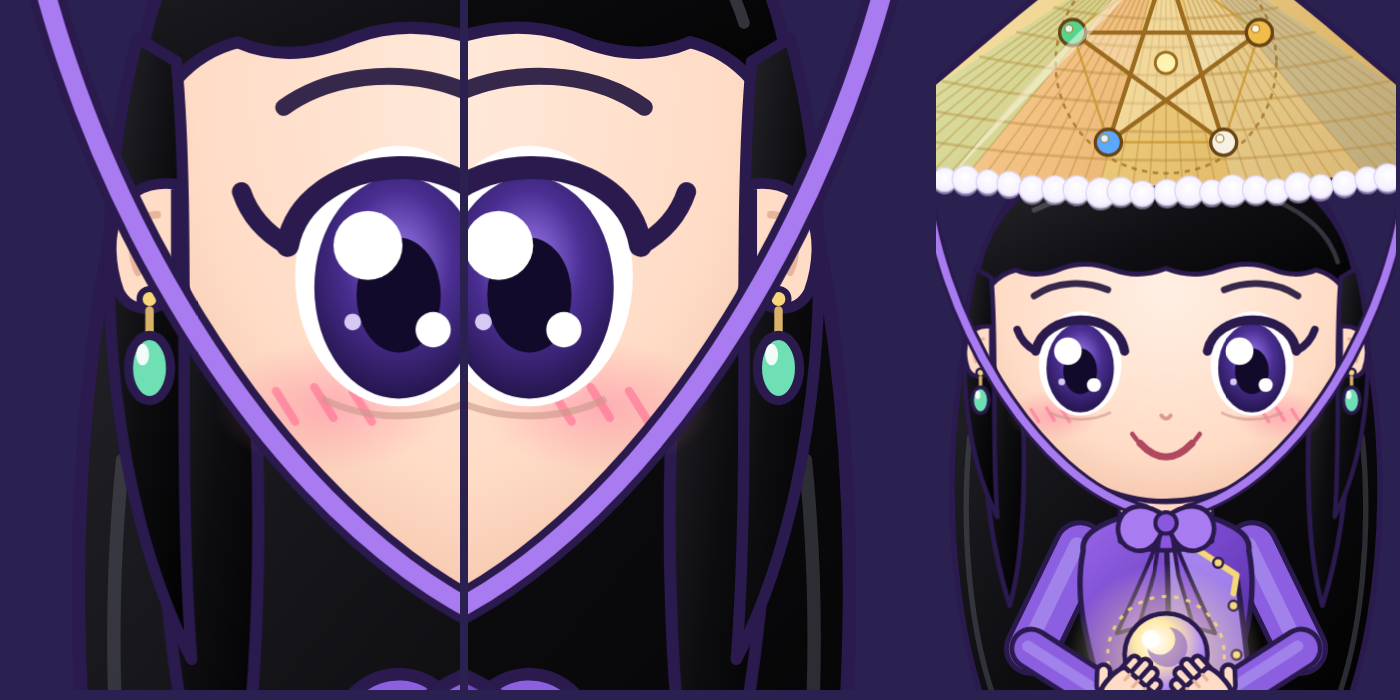
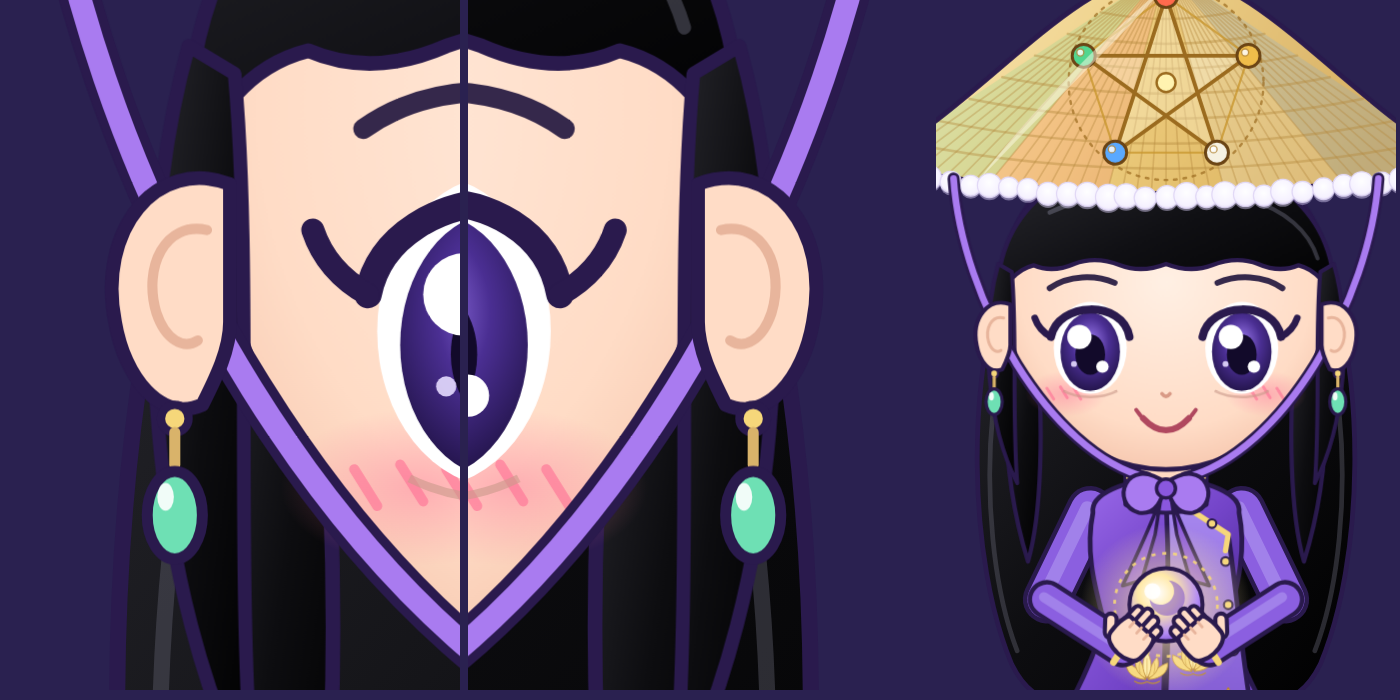
Tai lộ trọn khỏi tóc, cân đối hai bên; bông tai đính vào đáy dái tai
Claude-Session: https://claude.ai/code/session_01AxiVpuxpGkTqByN3TdYc71

diff --git a/tools/rig.py b/tools/rig.py
@@ -264,13 +264,6 @@ def build():
     for sgn in (-1, 1):
         x = 300 + sgn * 124
         S.append(f'<path d="M {x} 300 C {x+sgn*14} 350 {x+sgn*8} 420 {x-sgn*14} 462 C {x-sgn*10} 410 {x-sgn*14} 350 {x-sgn*10} 306 Z" fill="url(#hairg)" stroke="{OUT}" stroke-width="3" stroke-linejoin="round"/>')
-    for sgn in (-1, 1):   # tai nằm trước tóc (như tóc vén sau tai); bông tai treo ngay từ dái tai
-        x = 300 + sgn * 120
-        S.append(f'<g class="ear"><path d="M {x - sgn*6} 338 C {x + sgn*10} 336 {x + sgn*14} 352 {x + sgn*9} 366 C {x + sgn*6} 372 {x - sgn*2} 372 {x - sgn*6} 366 Z" fill="#ffdcc6" stroke="{OUT}" stroke-width="2.8" stroke-linejoin="round"/>'
-                 f'<path d="M {x - sgn*1} 346 C {x + sgn*5} 346 {x + sgn*7} 354 {x + sgn*4} 361" fill="none" stroke="#e8b59c" stroke-width="2" stroke-linecap="round"/>'
-                 f'<circle cx="{x + sgn*1}" cy="368" r="2.6" fill="#f6d77a" stroke="{OUT}" stroke-width="1.6"/>'
-                 f'<path d="M {x + sgn*1} 371 L {x + sgn*1} 377" stroke="#d9b36a" stroke-width="2.2" stroke-linecap="round"/>'
-                 f'<ellipse cx="{x + sgn*1}" cy="386" rx="5.5" ry="8.5" fill="#6ee0b4" stroke="{OUT}" stroke-width="2.4"/><ellipse cx="{x + sgn*1 - 1.8}" cy="382.5" rx="1.7" ry="2.8" fill="#fff" opacity=".9"/></g>')
     S.append('</g>')
     S.append(f'<g id="brows" opacity=".95">{brows()}</g>')
     S.append('<g transform="translate(0,-30)">' + hat() + '</g>')
@@ -280,6 +273,17 @@ def build():
         S.append(f'<path d="{d}" fill="none" stroke="{OUT}" stroke-width="9" stroke-linecap="round"/><path d="{d}" fill="none" stroke="#a97bf0" stroke-width="5" stroke-linecap="round"/>')
     S.append(f'<path d="M 300 462 C 270 440 258 478 280 484 C 292 486 298 474 300 462 C 302 474 308 486 320 484 C 342 478 330 440 300 462 Z" fill="#a97bf0" stroke="{OUT}" stroke-width="3" stroke-linejoin="round"/>')
     S.append(f'<path d="M 296 474 C 286 500 276 520 268 538 L 282 534 L 292 500 Z M 304 474 C 314 500 324 520 332 538 L 318 534 L 308 500 Z" fill="#8a57de" stroke="{OUT}" stroke-width="2.6" stroke-linejoin="round"/><circle cx="300" cy="466" r="7" fill="#8a57de" stroke="{OUT}" stroke-width="2.6"/>')
+    for sgn in (-1, 1):   # tai: nằm trên cùng, nhô hẳn ra ngoài mép má, không bị tóc hay quai che
+        x0 = 300 + sgn * 117            # gốc tai sát mép má
+        ear = (f'M {x0 - sgn*2} 330 C {x0 + sgn*14} 324 {x0 + sgn*27} 340 {x0 + sgn*23} 360 '
+               f'C {x0 + sgn*21} 372 {x0 + sgn*13} 382 {x0 + sgn*4} 378 C {x0 + sgn*1} 372 {x0 - sgn*2} 366 {x0 - sgn*2} 360 Z')
+        lx = x0 + sgn * 10              # tâm dái tai
+        S.append(f'<g class="ear"><path d="{ear}" fill="#ffdcc6" stroke="{OUT}" stroke-width="3" stroke-linejoin="round"/>'
+                 f'<path d="M {x0 + sgn*3} 340 C {x0 + sgn*12} 338 {x0 + sgn*17} 348 {x0 + sgn*14} 358 C {x0 + sgn*12} 364 {x0 + sgn*8} 366 {x0 + sgn*5} 364" fill="none" stroke="#e8b59c" stroke-width="2.2" stroke-linecap="round"/>'
+                 # bông tai đính vào đáy dái tai
+                 f'<circle cx="{lx}" cy="381" r="3" fill="#f6d77a" stroke="{OUT}" stroke-width="1.8"/>'
+                 f'<path d="M {lx} 384 L {lx} 391" stroke="#d9b36a" stroke-width="2.4" stroke-linecap="round"/>'
+                 f'<ellipse cx="{lx}" cy="402" rx="6" ry="9.5" fill="#6ee0b4" stroke="{OUT}" stroke-width="2.4"/><ellipse cx="{lx - 2}" cy="398" rx="1.8" ry="3" fill="#fff" opacity=".9"/></g>')
     S.append('</g>')  # head
     # ----- quả cầu + tay -----
     S.append('<g id="orb"><circle cx="300" cy="556" r="64" fill="url(#halo)"/><circle cx="300" cy="552" r="27" fill="url(#orbg)" stroke="#2a1a4d" stroke-width="3"/>'
